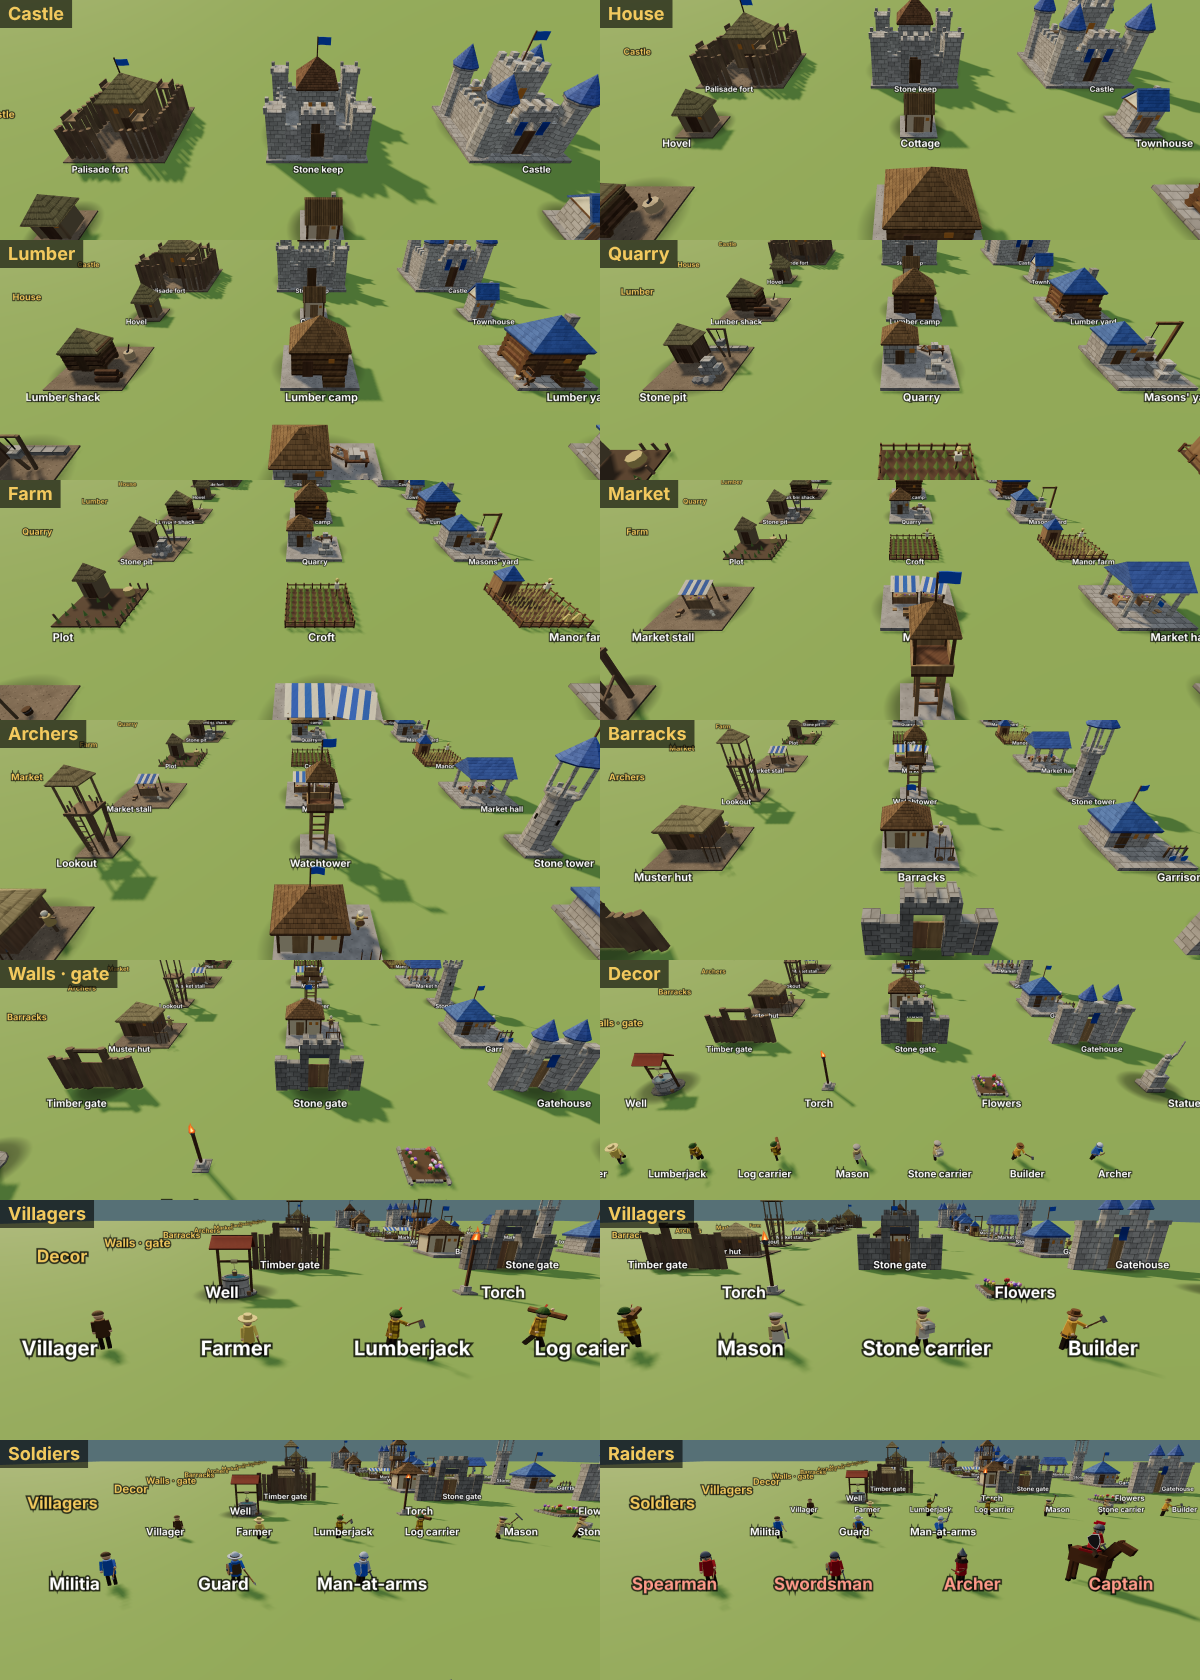
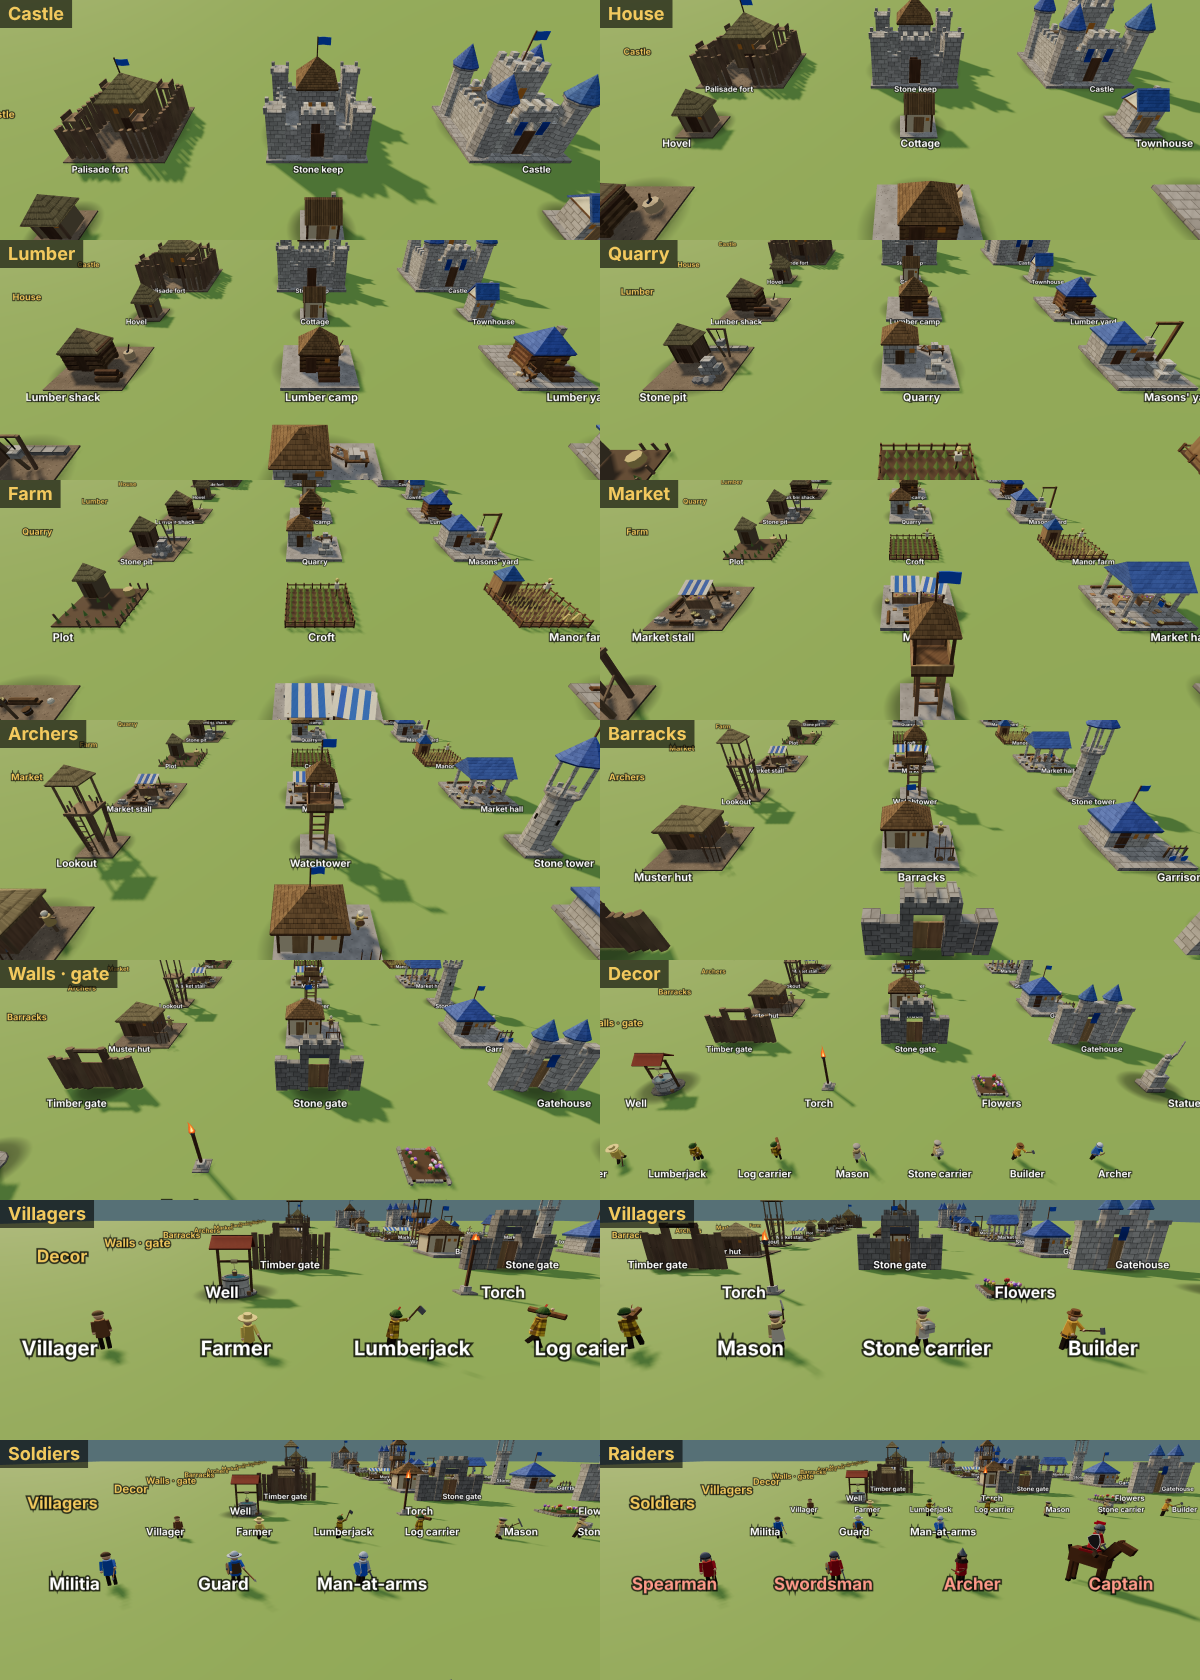
Lumber camp/yard: smaller, lower cabin and the sawbuck moved in; markets filled out with wheat barrels, log stacks, stone piles and more goods
Claude-Session: https://claude.ai/code/session_01AE8sRRsVdpH9ETfQvtppox

diff --git a/index.html b/index.html
@@ -1137,7 +1137,7 @@ function rebuildRoads() {
 // each model's door, in its own frame (front = +z): x across the front, z just outside the door leaf, per tier
 const DOOR = {
   house: [[0, .6], [0, .62], [0, .66]],
-  lodge: [[-.65, .52], [-.48, .92], [-.48, .92]],
+  lodge: [[-.65, .52], [-.42, .82], [-.42, .82]],
   quarry: [[-1, -.22], [-1, .03], [-1, .03]],
   castle: [[0, .5], [0, 2.75], [0, 2.51]],      // T1 the hall door; T2/T3 the gatehouse
   barracks: [[-1, .42], [-1, .42], [-1, .42]],
@@ -1311,7 +1311,7 @@ function makeCastle(tier, plinth) {
   }
   return root;
 }
-const LODGE_K = .8;
+const LODGE_K = .7, LODGE_KY = .8;   // T2/T3 cabin drawn at .7 in plan and .8 in height; its door keeps the standard size
 function makeLodge(tier, plinth) {
   const g = new THREE.Group();
   if (plinth) g.add(box(4.0, 1.8, 4.0, tier === 2 ? M.plainStone : M.stone, 0, -.7, 0));
@@ -1334,7 +1334,7 @@ function makeLodge(tier, plinth) {
     pile(1.05, 1.25, 2);
     axeStump(1.1, -.85);       // chopping block round the back, beside the hut
   } else {                     // log cabin, then timber yard; the cabin is drawn at LODGE_K in x and z (the door keeps its size)
-    const cab = new THREE.Group(), K = LODGE_K; cab.scale.set(K, 1, K); g.add(cab);
+    const cab = new THREE.Group(), K = LODGE_K; cab.scale.set(K, LODGE_KY, K); g.add(cab);
     for (let n = 0; n < 5; n++) {
       const y = .35 + n * .32;
       const l1 = cyl(.17, .17, 2.9, 6, M.log, 0, y, .9); l1.rotation.z = Math.PI / 2; cab.add(l1);
@@ -1345,18 +1345,19 @@ function makeLodge(tier, plinth) {
     cab.add(box(2.5, 1.5, 1.7, M.wood, 0, .95, 0));
     cab.add(pyramid(2.2, 1.4, .82, tier === 3 ? M.roofBlue : M.thatch, 2.55));
     g.add(box(DOOR_W, DOOR_H, .06, M.timber, -.6 * K, .2 + DOOR_H / 2, 1.08 * K));
-    g.add(box(.3, .24, .06, M.glow, .6 * K, 1.2, 1.08 * K));
-    pile(.6, 1.3, 3, .14);    // in front of the cabin, well inside the base
+    g.add(box(.26, .22, .06, M.glow, .6 * K, 1.0, 1.08 * K));
+    pile(.5, 1.15, 3, .14);   // in front of the cabin, well inside the base
     axeStump(1.3, -1.3);
     if (tier === 3) {
       cab.add(box(.45, 2.6, .45, M.stone, 1.05, 1.7, -.45));
       // sawbuck: two X trestles cradling a log, a frame saw standing in the cut, sawn rounds beside it
-      for (const z of [1.35, 1.8]) for (const sx of [-1, 1]) { const l = box(.07, .8, .07, M.timber, -1.5, .38, z); l.rotation.z = sx * .55; g.add(l); }
-      const lg = cyl(.13, .13, .75, 7, M.log, -1.5, .62, 1.57); lg.rotation.x = Math.PI / 2; g.add(lg);
-      g.add(box(.012, .09, .5, M.iron, -1.5, .78, 1.57));
-      for (const z of [1.34, 1.8]) g.add(box(.035, .3, .035, M.timber, -1.5, .9, z));
-      g.add(box(.035, .035, .52, M.timber, -1.5, 1.04, 1.57));
-      g.add(cyl(.14, .14, .2, 7, M.logEnd, -1.78, .1, 1.22)); g.add(cyl(.12, .12, .18, 7, M.logEnd, -1.72, .29, 1.25));
+      const SX = -1.2, SZ = -.3;   // the sawbuck, drawn in nearer the cabin
+      for (const z of [1.35, 1.8]) for (const sx of [-1, 1]) { const l = box(.07, .8, .07, M.timber, SX, .38, z + SZ); l.rotation.z = sx * .55; g.add(l); }
+      const lg = cyl(.13, .13, .75, 7, M.log, SX, .62, 1.57 + SZ); lg.rotation.x = Math.PI / 2; g.add(lg);
+      g.add(box(.012, .09, .5, M.iron, SX, .78, 1.57 + SZ));
+      for (const z of [1.34, 1.8]) g.add(box(.035, .3, .035, M.timber, SX, .9, z + SZ));
+      g.add(box(.035, .035, .52, M.timber, SX, 1.04, 1.57 + SZ));
+      g.add(cyl(.14, .14, .2, 7, M.logEnd, SX - .3, .1, 1.22 + SZ)); g.add(cyl(.12, .12, .18, 7, M.logEnd, SX - .24, .29, 1.25 + SZ));
     }
   }
   return g;
@@ -1370,6 +1371,13 @@ function makeMarket(tier, plinth) {
   const crate = (x, z, s = .32, r = 0) => { const c = box(s, s, s, M.wood, x, s / 2, z); c.rotation.y = r; g.add(c); };
   const sack = (x, z, r = .15) => { const o = new THREE.Mesh(new THREE.SphereGeometry(r, 7, 5), M.canvas); o.scale.y = 1.25; o.position.set(x, r * 1.1, z); o.castShadow = true; g.add(o); };
   const barrel = (x, z) => { g.add(cyl(.17, .15, .44, 9, M.log, x, .22, z)); g.add(cyl(.175, .175, .04, 9, M.iron, x, .32, z)); };
+  const wheat = (x, z) => { barrel(x, z); g.add(cyl(.15, .15, .06, 9, M.wheat, x, .46, z)); for (let i = 0; i < 5; i++) { const st = cone(.03, .22, 4, M.wheat, x + Math.cos(i * 1.3) * .08, .56, z + Math.sin(i * 1.3) * .08); st.rotation.z = Math.cos(i * 1.3) * .3; g.add(st); } };
+  const logs = (x, z, along = 0) => {                // a stack of five logs, 3 then 2
+    for (const [dy, dw] of [[.12, -.25], [.12, 0], [.12, .25], [.33, -.125], [.33, .125]]) { const l = cyl(.12, .12, 1.0, 7, M.log, x + (along ? 0 : dw), dy, z + (along ? dw : 0)); if (along) l.rotation.x = Math.PI / 2; else l.rotation.z = Math.PI / 2; g.add(l); }
+  };
+  const stones = (x, z) => {                          // cut blocks, three below and two on top
+    for (const [dx, dy, dz] of [[-.28, .12, 0], [0, .12, .04], [.28, .12, -.02], [-.14, .36, .01], [.15, .36, .02]]) { const b = box(.26, .22, .26, M.stone2, x + dx, dy, z + dz); b.rotation.y = dx; g.add(b); }
+  };
   const produce = (x, z, w) => {                     // a tray of fruit, veg and cloth on a counter top at height y
     for (let i = 0; i < 6; i++) { const o = new THREE.Mesh(new THREE.SphereGeometry(.06, 6, 4), FLOWER[i % 5]); o.position.set(x - w / 2 + .1 + i * (w - .2) / 5, .86, z + (i % 2) * .08); o.castShadow = true; g.add(o); }
   };
@@ -1388,6 +1396,8 @@ function makeMarket(tier, plinth) {
   if (tier === 1) {
     stall(0, -.15, 1.7, 1.05);
     crate(-1.1, .75); crate(-1.05, 1.15, .26, .4); sack(1.0, .8); sack(1.25, 1.05, .12); barrel(1.15, -.9); crate(-1.15, -.85, .34, .2);
+    wheat(.15, 1.25); wheat(.5, 1.45); logs(-1.75, .1, 1); stones(1.75, .1); wheat(-.4, -1.35); logs(.55, -1.45); stones(-1.75, 1.75); sack(1.75, -1.5);
+    wheat(1.65, 1.7); crate(1.75, 1.2, .3); logs(-.3, 2.0); stones(.95, 2.0); barrel(-1.85, -1.2); crate(-1.5, -1.75, .3, .6);
   } else if (tier === 2) {
     stall(-.9, -.6, 1.8, 1.2); stall(1.05, -.4, 1.6, 1.1, -.25);
     // a hand cart of goods at the front
@@ -1395,6 +1405,8 @@ function makeMarket(tier, plinth) {
     for (const sz of [-1, 1]) { const wh = cyl(.26, .26, .06, 10, M.timber, -.6, .26, 1.2 + sz * .34); wh.rotation.x = Math.PI / 2; g.add(wh); }
     g.add(box(.05, .05, .9, M.timber, .1, .45, 1.2)); sack(-.75, 1.2, .13); sack(-.45, 1.25, .12);
     barrel(1.5, 1.1); barrel(1.15, 1.35); crate(.55, 1.4, .3, .5); crate(-1.6, .6, .3);
+    stones(2.0, .3); logs(-2.0, 1.55, 1); wheat(.35, .65); wheat(.05, 1.8); logs(0, -1.85); stones(-1.75, -1.75); wheat(1.8, -1.6); sack(2.05, -.6);
+    wheat(1.55, .5); crate(-.3, .55, .3); stones(1.0, 2.0); logs(-.95, 2.05); wheat(-2.15, -.2); crate(1.0, -1.95, .3);
   } else {
     // open market hall: stone pillars, a timber floor frame, a steep blue gable roof; tables of goods inside
     for (const x of [-1.5, 0, 1.5]) for (const z of [-1.3, 1.3]) { g.add(cyl(.14, .17, 2.1, 8, M.stone2, x, 1.05, z)); g.add(box(.36, .14, .36, M.stone2, x, 2.1, z)); }
@@ -1405,6 +1417,10 @@ function makeMarket(tier, plinth) {
     // goods under the roof, along the back and front between the pillars
     for (const [x, z] of [[-1.12, -.82], [-.74, -.95], [-.95, -.55], [.78, -.88], [1.15, -.78], [1.12, .2]]) barrel(x, z);
     crate(1.15, .8, .32, .3); crate(.8, .95, .26, .1); sack(-1.15, .82); sack(-.85, .95, .12); crate(-.3, -.95, .28, .5);
+    // and round the hall, on the open paving
+    wheat(-1.9, 2.0); wheat(-1.5, 2.2); stones(1.9, 2.05); logs(1.05, 2.15); logs(-1.2, -2.1); stones(1.3, -2.1); wheat(2.15, -1.95);
+    wheat(2.2, .25); wheat(2.2, -.3); stones(-2.2, .3); sack(-2.2, -.4);
+    crate(-.55, 2.15, .3); wheat(.25, 2.2); logs(-.1, -2.15); crate(-2.15, -1.2, .3); wheat(-2.15, 1.1);
     // a sign hung from an iron bracket on the middle front pillar, square to the front
     g.add(box(.04, .04, .56, M.iron, 0, 1.86, 1.66));     for (const z of [1.62, 1.86]) g.add(box(.015, .14, .015, M.iron, 0, 1.78, z));
     g.add(box(.04, .3, .34, M.awning, 0, 1.56, 1.74));

diff --git a/CLAUDE.md b/CLAUDE.md
@@ -38,7 +38,7 @@ The whole game is currently one self-contained file: `index.html` (~165 KB, thre
 - Arrows leave from the bow (`bowPoint`: raises the bow arm, reads the bow's world position) for tower/castle archers and raider archers.
 - Construction: `addScaffold` builds poles every ~1 m, plank decks per lift, braces, a ladder and material stacks; walls/torches/flowers get a light version (`LIGHT_SCAFFOLD`). Builders kick up dust (`dustAt`, shares the smoke `puffs`).
 - Walls are not flattened and have no AO plane; their posts/blocks run 0.3–0.6 m below ground so runs follow slopes cleanly.
-- Doors and facing: `DOOR[type][tier]` is each model's door in its own frame (front = +z). Every building except walls, gates and paths can face any side (`FACING`, `B.face` 0–3 = +z/+x/−z/−x, `faceRot`/`unrot`): `placeFace` is set with Rotate / R while placing (ghost turns with it); smart rotate: if that facing's door tile is blocked, `evaluate` picks the nearest turn whose door is open (order +0, −1, +1, +2 quarter turns; result in `ev.face`, used by the ghost and `place`), and the card's Rotate turns a placed one to the next side whose door tile is open (`doorOk`), else "Door blocked". `evaluate` rejects a spot whose door tile is blocked. Posts (`postOffset`) and farm obstacles (`farmBlocked`) follow the face. `doorCell` lines the door tile up with the door (1×1 and 3×3 on the centre, 2×2 tier-1 doors at local x −1). A door may sit off the tile's centre line (lumber shack T1 at x −0.65, the hut nearer the middle; lumber camp T2/T3 at x −0.48, z .92: the cabin is drawn at `LODGE_K` .8 in x/z, its door kept full size, the log pile at (.6, 1.3)): `doorShift` (measured from the tile's centre, 1 m off a 2×2's middle) moves the door point and the path tile's arm into the building across to it. No paths are laid automatically: the player builds them. Villagers walk from the door tile straight to `innerDoor(B)` and only vanish there (`goIn`/`exitDoor`/`doorStep`, `v.doorWalk` pauses their logic); loads are dropped once inside (`dropLoad`).
+- Doors and facing: `DOOR[type][tier]` is each model's door in its own frame (front = +z). Every building except walls, gates and paths can face any side (`FACING`, `B.face` 0–3 = +z/+x/−z/−x, `faceRot`/`unrot`): `placeFace` is set with Rotate / R while placing (ghost turns with it); smart rotate: if that facing's door tile is blocked, `evaluate` picks the nearest turn whose door is open (order +0, −1, +1, +2 quarter turns; result in `ev.face`, used by the ghost and `place`), and the card's Rotate turns a placed one to the next side whose door tile is open (`doorOk`), else "Door blocked". `evaluate` rejects a spot whose door tile is blocked. Posts (`postOffset`) and farm obstacles (`farmBlocked`) follow the face. `doorCell` lines the door tile up with the door (1×1 and 3×3 on the centre, 2×2 tier-1 doors at local x −1). A door may sit off the tile's centre line (lumber shack T1 at x −0.65, the hut nearer the middle; lumber camp T2/T3 at x −0.42, z .82: the cabin is drawn at `LODGE_K` .7 in x/z and `LODGE_KY` .8 in height, its door kept full size, the log pile at (.5, 1.15), the T3 sawbuck at x −1.2 just in front of the cabin): `doorShift` (measured from the tile's centre, 1 m off a 2×2's middle) moves the door point and the path tile's arm into the building across to it. No paths are laid automatically: the player builds them. Villagers walk from the door tile straight to `innerDoor(B)` and only vanish there (`goIn`/`exitDoor`/`doorStep`, `v.doorWalk` pauses their logic); loads are dropped once inside (`dropLoad`).
 - Opening doors: `leaf(w, h, t, m, hx, y, z, dir, open)` builds a door leaf hung on a hinge (`userData.leaf` = swing angle). The castle (T1 hall door swings out over a dark doorway; T2/T3 double gatehouse doors swing in) and gates (two leaves, closed across the opening, swing out) open while a visible villager is within 1.7 m of the door (`updateDoors`: castle at `innerDoor`, gate at its centre; `B.doorK` eases open 6/s, shut 2.5/s). Raiders never open them.
 - Archers draw with both hands at the bow for `DRAW` (.45 s) before each shot (`bowPose`: draw / loose / idle), town and raider alike. Melee raiders run (×1.6, faster stride, lean) within 6 m of their target.
 - Movement: `steer` tries straight, then the committed side, then the other side (`STEER_L`/`STEER_R`), each group first wanting clear ground 0.65 m ahead, so units slide along obstacles instead of bouncing between sides; they face the smoothed travel direction (`v.hx/hz`). `clearLine` shortcuts need 0.22 m clearance either side. `walkTo` tracks progress (`trackProgress` → `v.noProg`, seconds without getting 0.25 m closer; `unstick` resets `v.stuck` every 2 s, so give-ups must use `noProg`) and counts a crowded spot as reached (within stop + 0.7 m after 0.8 s without progress). Builders each take their own `workSpot` just outside the site (0.6 m out, 0.8 m from other builders' spots), switching spots after 5 s without progress. `separateUnits` weights pushes: walkers 1, standing .35, working .1, so walkers step round people standing still.
@@ -87,7 +87,7 @@ The whole game is currently one self-contained file: `index.html` (~165 KB, thre
 | barracks | 2×2 | wood 25 gold 20 | wood 30 gold 35 stone 10 / stone 40 gold 60 | 3 soldiers (all tiers), hp 220/320/450; soldiers hp 70/100/140, dmg 7/10/14 every 0.9 s; hall on the left (door x −1), drill yard with weapon rack and practice dummy on the right | Muster hut / Barracks / Garrison |
 | wall | 1×1 | wood 5 gold 2 | stone 6 gold 3 / stone 10 gold 10 | drag-paint, auto-tiles, no plinth | Palisade / Stone wall / Battlement |
 | gate | 1×1 | wood 15 gold 10 | stone 15 gold 20 / stone 25 gold 35 | auto-tiles with walls, no plinth | Timber gate / Stone gate / Gatehouse |
-| market | 2×2 | wood 20 gold 15 | wood 25 gold 30 / stone 25 gold 50 | no workers; the card's trade grid (`#cardTrade`, `TRADES`, rebuilt only when tier/affordability change) swaps 10 of one resource, in rows of two (left: buy with gold, right: sell for gold): 10 gold → wood 4 / stone 2 / food 6, and wood 10 → gold 4, stone 10 → gold 6, food 10 → gold 2 at tier 1; every amount +2 per tier; any time of day; what you get pops up (`floatRes`) and flies to its chip (`coinFly(x, y, z, n, kind)`, `RES_CHIP`). Model `makeMarket`: T1 one small stall under a blue/canvas striped awning (`M.awning`), T2 two stalls + hand cart, T3 open hall on stone pillars with a blue gable roof, barrels and goods under the roof, a blue sign hung by two chains from an iron bar on the middle front pillar; everything but the base drawn at `MARKET_K` .8; crates, sacks, barrels, produce | Market stall / Market / Market hall |
+| market | 2×2 | wood 20 gold 15 | wood 25 gold 30 / stone 25 gold 50 | no workers; the card's trade grid (`#cardTrade`, `TRADES`, rebuilt only when tier/affordability change) swaps 10 of one resource, in rows of two (left: buy with gold, right: sell for gold): 10 gold → wood 4 / stone 2 / food 6, and wood 10 → gold 4, stone 10 → gold 6, food 10 → gold 2 at tier 1; every amount +2 per tier; any time of day; what you get pops up (`floatRes`) and flies to its chip (`coinFly(x, y, z, n, kind)`, `RES_CHIP`). Model `makeMarket`: T1 one small stall under a blue/canvas striped awning (`M.awning`), T2 two stalls + hand cart, T3 open hall on stone pillars with a blue gable roof, barrels and goods under the roof, a blue sign hung by two chains from an iron bar on the middle front pillar; everything but the base drawn at `MARKET_K` .8; every tier is filled out with wheat barrels (`wheat`), five-log stacks (`logs`), cut-stone piles (`stones`), crates, sacks and barrels (T3 also round the hall on the open paving); crates, sacks, barrels, produce | Market stall / Market / Market hall |
 | well | 1×1 | stone 5 | — | charm 0.25 | — |
 | torch | ⅓ tile | wood 2 | — | charm 0.1, walkable, night light | — |
 | flowers | 1×1 | gold 3 | — | charm 0.15, walkable | — |
